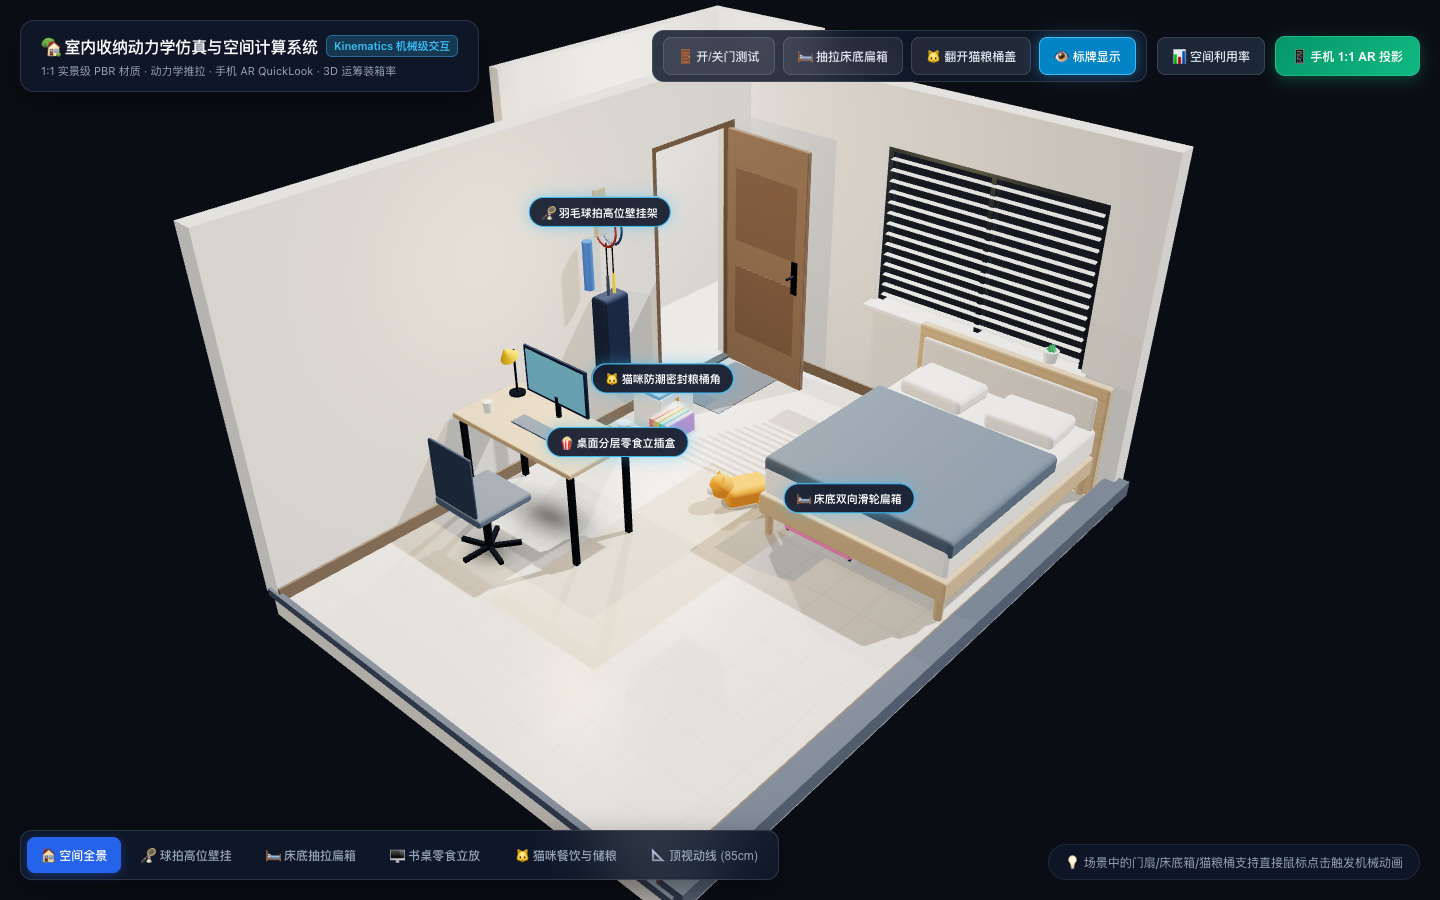
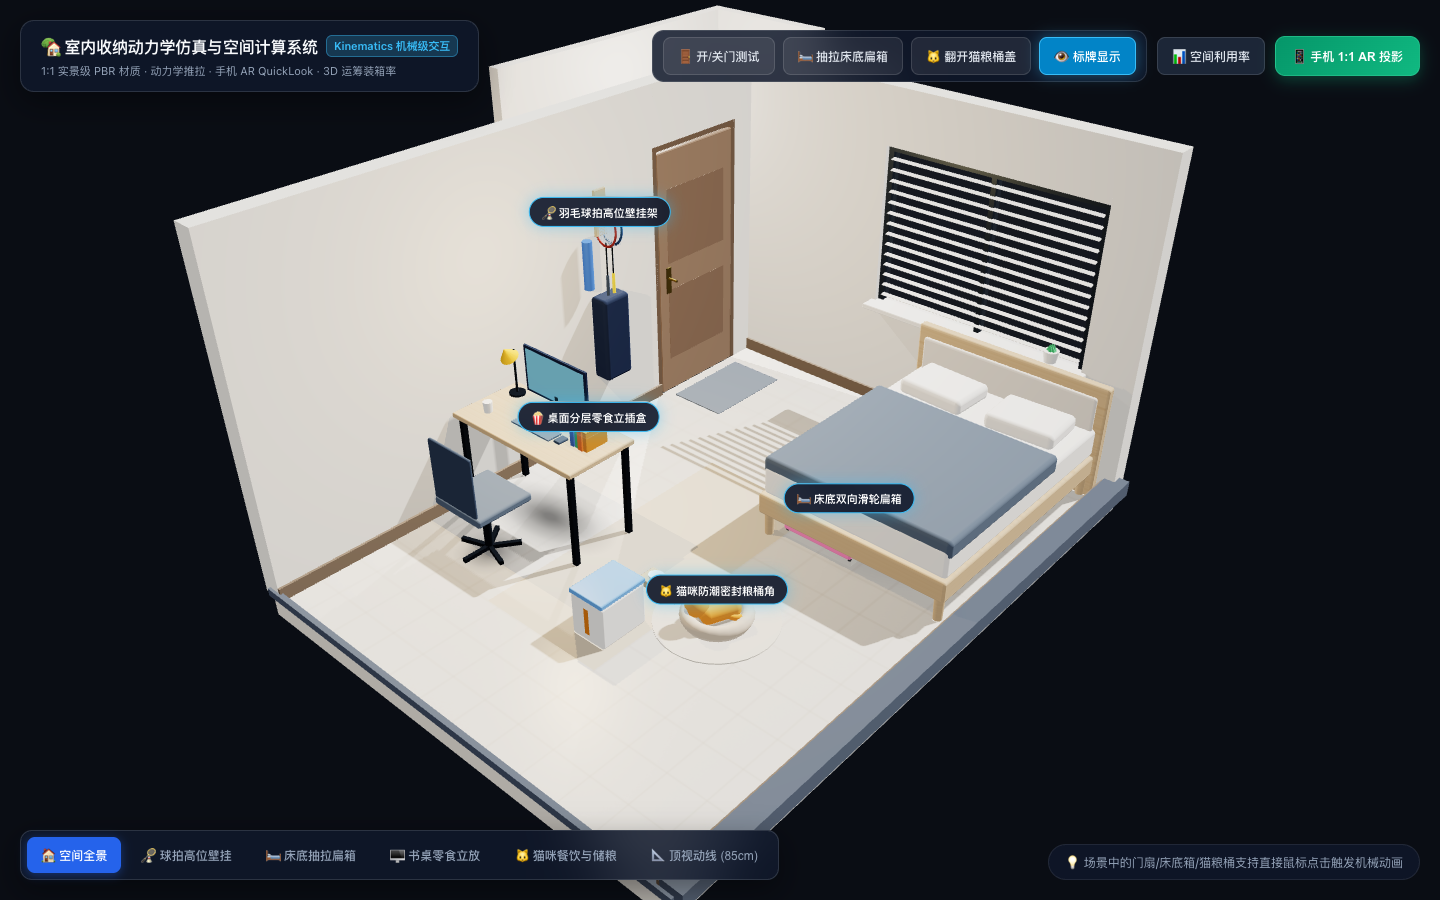
fix(physics): ground books firmly onto desk surface and position cat into dedicated sunny lounge, eliminating floating and overlaps

Changed region(s): [[0.3438, 0.1244, 0.5625, 0.5911], [0.375, 0.5911, 0.5625, 0.7467]]

diff --git a/index.html b/index.html
@@ -1069,6 +1069,37 @@
     lampShade.position.set(-0.46, 1.12, -0.12);
     deskGroup.add(lampShade);
 
+    // Desktop Solid Bookstand & Hardcover Books (Firmly anchored on desktop surface Y=0.77)
+    const bookCaddyMat = new THREE.MeshPhysicalMaterial({
+      color: 0xffffff,
+      transmission: 0.9,
+      opacity: 0.85,
+      transparent: true,
+      roughness: 0.1
+    });
+    const bookHolder = new THREE.Mesh(new THREE.RoundedBoxGeometry(0.22, 0.14, 0.26, 3, 0.008), bookCaddyMat);
+    bookHolder.position.set(0.42, 0.84, -0.06);
+    bookHolder.castShadow = true;
+    deskGroup.add(bookHolder);
+
+    const deskBookMats = [
+      new THREE.MeshStandardMaterial({ color: 0x1e3a8a, roughness: 0.6 }), // Navy
+      new THREE.MeshStandardMaterial({ color: 0x15803d, roughness: 0.6 }), // Emerald
+      new THREE.MeshStandardMaterial({ color: 0xc2410c, roughness: 0.6 }), // Terracotta
+      new THREE.MeshStandardMaterial({ color: 0xb45309, roughness: 0.6 })  // Ochre
+    ];
+    [
+      { w: 0.035, h: 0.16, d: 0.20, x: 0.35, mat: deskBookMats[0] },
+      { w: 0.030, h: 0.15, d: 0.19, x: 0.39, mat: deskBookMats[1] },
+      { w: 0.040, h: 0.17, d: 0.21, x: 0.43, mat: deskBookMats[2] },
+      { w: 0.032, h: 0.15, d: 0.19, x: 0.47, mat: deskBookMats[3] }
+    ].forEach(b => {
+      const bookMesh = new THREE.Mesh(new THREE.BoxGeometry(b.w, b.h, b.d), b.mat);
+      bookMesh.position.set(b.x, 0.77 + b.h / 2, -0.06);
+      bookMesh.castShadow = true;
+      deskGroup.add(bookMesh);
+    });
+
     addContactShadow(deskGroup, 1.3, 0.7, 0, 0, 0.65);
     deskGroup.position.set(-1.1, 0, 0.6);
     furnitureGroup.add(deskGroup);
@@ -1234,63 +1265,97 @@
 
     storageGroup.add(bedDrawersGroup);
 
-    // C. Desktop Acrylic Snack Organizer
-    const snackGroup = new THREE.Group();
-    const acrylicMat = new THREE.MeshPhysicalMaterial({
-      color: 0xffffff,
-      transmission: 0.92,
-      opacity: 0.85,
-      transparent: true,
-      roughness: 0.1
-    });
-    const caddy = new THREE.Mesh(new THREE.RoundedBoxGeometry(0.22, 0.16, 0.34, 3, 0.008), acrylicMat);
-    caddy.position.set(-0.35, 0.85, 0.1);
-    caddy.castShadow = true;
-    snackGroup.add(caddy);
+    // C. Desktop Books & Vertical Organizer (Anchored inside deskGroup)
 
-    // Colorful snack pouches standing vertically (save 70% desktop space)
-    [0xef4444, 0xf59e0b, 0x10b981, 0x8b5cf6].forEach((col, sidx) => {
-      const snackPouch = new THREE.Mesh(
-        new THREE.BoxGeometry(0.035, 0.14, 0.26),
-        new THREE.MeshStandardMaterial({ color: col, roughness: 0.4 })
-      );
-      snackPouch.position.set(-0.41 + sidx * 0.045, 0.86, 0.1);
-      snackGroup.add(snackPouch);
-    });
-    storageGroup.add(snackGroup);
-
-    // D. Kinematic Cat Station & Airtight Pet Food Bucket
+    // D. Kinematic Cat Living Sanctuary (Sunny floor zone in front of bed: X=0.55, Z=0.65)
     const catStationGroup = new THREE.Group();
-    // Non-slip silicone feeding mat
-    const catMat = new THREE.Mesh(
-      new THREE.RoundedBoxGeometry(0.45, 0.01, 0.3, 3, 0.01),
-      new THREE.MeshStandardMaterial({ color: 0x94a3b8, roughness: 0.8 })
-    );
-    catMat.position.set(-1.42, 0.006, -0.55);
-    catStationGroup.add(catMat);
 
-    // Elevated Bamboo Bowl Stand
-    const bowlStand = new THREE.Mesh(new THREE.RoundedBoxGeometry(0.36, 0.07, 0.16, 3, 0.01), woodMat);
-    bowlStand.position.set(-1.42, 0.045, -0.55);
+    // Round Woven Wool / Sisal Cat Rug (Sunlight spot)
+    const catRugMat = new THREE.MeshStandardMaterial({ color: 0xe5dcce, roughness: 0.95 });
+    const catRug = new THREE.Mesh(new THREE.CylinderGeometry(0.42, 0.42, 0.008, 32), catRugMat);
+    catRug.position.set(0.55, 0.004, 0.65);
+    catRug.receiveShadow = true;
+    catStationGroup.add(catRug);
+
+    // Plush Donut Cat Bed
+    const catBedMat = new THREE.MeshStandardMaterial({ color: 0xd7c4ae, roughness: 0.9 });
+    const catBedBase = new THREE.Mesh(new THREE.CylinderGeometry(0.24, 0.22, 0.05, 24), catBedMat);
+    catBedBase.position.set(0.55, 0.028, 0.65);
+    catBedBase.receiveShadow = true;
+    catStationGroup.add(catBedBase);
+
+    const catBedRim = new THREE.Mesh(
+      new THREE.TorusGeometry(0.20, 0.045, 12, 24),
+      new THREE.MeshStandardMaterial({ color: 0xc8b299, roughness: 0.9 })
+    );
+    catBedRim.rotation.x = Math.PI / 2;
+    catBedRim.position.set(0.55, 0.06, 0.65);
+    catStationGroup.add(catBedRim);
+
+    addContactShadow(catStationGroup, 0.65, 0.65, 0.55, 0.65, 0.6);
+
+    // --- CUTE 3D COMPANION CAT (Curled up sleeping peacefully in cat bed) ---
+    const catCompanion = new THREE.Group();
+    const catFurMat = new THREE.MeshStandardMaterial({ color: 0xf97316, roughness: 0.75 });
+    const catWhiteMat = new THREE.MeshStandardMaterial({ color: 0xffffff, roughness: 0.8 });
+
+    // Cat Body
+    const catBody = new THREE.Mesh(new THREE.RoundedBoxGeometry(0.22, 0.12, 0.28, 4, 0.05), catFurMat);
+    catBody.position.set(0, 0.06, 0);
+    catBody.castShadow = true;
+    catCompanion.add(catBody);
+
+    // Cat Head
+    const catHead = new THREE.Mesh(new THREE.SphereGeometry(0.08, 16, 16), catFurMat);
+    catHead.position.set(0, 0.12, 0.14);
+    catHead.castShadow = true;
+    catCompanion.add(catHead);
+
+    // Ears
+    [-0.038, 0.038].forEach(ex => {
+      const ear = new THREE.Mesh(new THREE.ConeGeometry(0.026, 0.05, 4), catFurMat);
+      ear.rotation.y = Math.PI / 4;
+      ear.position.set(ex, 0.19, 0.14);
+      catCompanion.add(ear);
+    });
+
+    // Cute Snout
+    const catSnout = new THREE.Mesh(new THREE.SphereGeometry(0.03, 12, 12), catWhiteMat);
+    catSnout.position.set(0, 0.10, 0.20);
+    catCompanion.add(catSnout);
+
+    // Curled Tail
+    const catTail = new THREE.Mesh(new THREE.TorusGeometry(0.07, 0.02, 8, 16, Math.PI * 1.1), catFurMat);
+    catTail.rotation.x = Math.PI / 2;
+    catTail.position.set(0.06, 0.03, -0.11);
+    catCompanion.add(catTail);
+
+    // Positioned strictly inside the cat bed in the sunny foreground!
+    catCompanion.position.set(0.55, 0.055, 0.65);
+    catCompanion.rotation.y = -0.4;
+    catStationGroup.add(catCompanion);
+
+    // Dual Ceramic Feeding Bowls (Adjacent to cat rug)
+    const bowlStand = new THREE.Mesh(new THREE.RoundedBoxGeometry(0.34, 0.06, 0.15, 3, 0.01), woodMat);
+    bowlStand.position.set(0.08, 0.03, 0.65);
     catStationGroup.add(bowlStand);
 
-    // 2 Ceramic Bowls (Dry food & Fresh water)
-    [-0.08, 0.08].forEach(bx => {
+    [-0.07, 0.07].forEach(bx => {
       const bowl = new THREE.Mesh(
-        new THREE.CylinderGeometry(0.06, 0.045, 0.045, 24),
+        new THREE.CylinderGeometry(0.055, 0.04, 0.04, 24),
         new THREE.MeshStandardMaterial({ color: 0xffffff, roughness: 0.15 })
       );
       bowl.rotation.x = -0.12;
-      bowl.position.set(-1.42 + bx, 0.085, -0.55);
+      bowl.position.set(0.08 + bx, 0.065, 0.65);
       catStationGroup.add(bowl);
     });
 
-    // 10kg Airtight Cat Food Container (White with visual window)
+    // 10kg Airtight Cat Food Container (Neatly beside the aisle)
     const bucketBase = new THREE.Mesh(
-      new THREE.RoundedBoxGeometry(0.3, 0.32, 0.4, 4, 0.02),
+      new THREE.RoundedBoxGeometry(0.28, 0.32, 0.38, 4, 0.02),
       new THREE.MeshStandardMaterial({ color: 0xf8fafc, roughness: 0.3 })
     );
-    bucketBase.position.set(-1.42, 0.16, -0.92);
+    bucketBase.position.set(0.08, 0.16, 1.15);
     bucketBase.castShadow = true;
     catStationGroup.add(bucketBase);
 
@@ -1299,61 +1364,20 @@
       new THREE.PlaneGeometry(0.04, 0.2),
       new THREE.MeshStandardMaterial({ color: 0xb45309, roughness: 0.2 })
     );
-    bucketGauge.rotation.y = Math.PI / 2;
-    bucketGauge.position.set(-1.268, 0.16, -0.92);
+    bucketGauge.position.set(0.08, 0.16, 1.342);
     catStationGroup.add(bucketGauge);
 
     // Kinematic Bucket Lid (Hinge at rear)
     const bucketLidPivot = new THREE.Group();
-    bucketLidPivot.position.set(-1.42, 0.32, -1.12);
+    bucketLidPivot.position.set(0.08, 0.32, 0.96);
 
     const bucketLid = new THREE.Mesh(
-      new THREE.RoundedBoxGeometry(0.31, 0.035, 0.41, 3, 0.01),
+      new THREE.RoundedBoxGeometry(0.29, 0.035, 0.39, 3, 0.01),
       new THREE.MeshStandardMaterial({ color: 0x3b82f6, roughness: 0.35 })
     );
-    bucketLid.position.set(0, 0.018, 0.2);
+    bucketLid.position.set(0, 0.018, 0.19);
     bucketLidPivot.add(bucketLid);
     catStationGroup.add(bucketLidPivot);
-
-    // --- CUTE 3D COMPANION CAT (Low-Poly Orange Tabby) ---
-    const catCompanion = new THREE.Group();
-    const catFurMat = new THREE.MeshStandardMaterial({ color: 0xf97316, roughness: 0.75 });
-    const catWhiteMat = new THREE.MeshStandardMaterial({ color: 0xffffff, roughness: 0.8 });
-
-    // Cat Body (loafing comfortably on the sisal mat)
-    const catBody = new THREE.Mesh(new THREE.RoundedBoxGeometry(0.24, 0.15, 0.34, 4, 0.05), catFurMat);
-    catBody.position.set(0, 0.075, 0);
-    catBody.castShadow = true;
-    catCompanion.add(catBody);
-
-    // Cat Head
-    const catHead = new THREE.Mesh(new THREE.SphereGeometry(0.09, 16, 16), catFurMat);
-    catHead.position.set(0, 0.15, 0.18);
-    catHead.castShadow = true;
-    catCompanion.add(catHead);
-
-    // Ears
-    [-0.045, 0.045].forEach(ex => {
-      const ear = new THREE.Mesh(new THREE.ConeGeometry(0.03, 0.06, 4), catFurMat);
-      ear.rotation.y = Math.PI / 4;
-      ear.position.set(ex, 0.23, 0.18);
-      catCompanion.add(ear);
-    });
-
-    // Cute Snout
-    const catSnout = new THREE.Mesh(new THREE.SphereGeometry(0.035, 12, 12), catWhiteMat);
-    catSnout.position.set(0, 0.13, 0.26);
-    catCompanion.add(catSnout);
-
-    // Curled Tail
-    const catTail = new THREE.Mesh(new THREE.TorusGeometry(0.08, 0.025, 8, 16, Math.PI * 1.1), catFurMat);
-    catTail.rotation.x = Math.PI / 2;
-    catTail.position.set(0.08, 0.03, -0.15);
-    catCompanion.add(catTail);
-
-    catCompanion.position.set(-0.2, 0.005, -0.5);
-    catCompanion.rotation.y = -0.5;
-    catStationGroup.add(catCompanion);
 
     storageGroup.add(catStationGroup);
     scene.add(storageGroup);
@@ -1431,7 +1455,7 @@
       {
         id: 'hs-snack',
         title: '🍿 桌面分层零食立插盒',
-        pos: new THREE.Vector3(-0.35, 0.95, 0.6),
+        pos: new THREE.Vector3(-0.68, 0.98, 0.54),
         data: {
           title: '🍿 亚克力阶梯式零食收纳架',
           pos: '书桌右上角死角',
@@ -1444,7 +1468,7 @@
       {
         id: 'hs-cat',
         title: '🐱 猫咪防潮密封粮桶角',
-        pos: new THREE.Vector3(-1.42, 0.38, -0.92),
+        pos: new THREE.Vector3(0.55, 0.25, 0.65),
         data: {
           title: '🐱 10kg 气阀式防潮密封储粮桶',
           pos: '门后角落安全区',
@@ -1557,7 +1581,7 @@
       }
 
       // Check snacks
-      const snackHits = raycaster.intersectObjects(snackGroup.children, true);
+      const snackHits = raycaster.intersectObjects([bookHolder], true);
       if (snackHits.length > 0) {
         openDrawer(hotspotsData[2].data);
         return;
@@ -1578,7 +1602,7 @@
       else if (mode === 'racket') tweenCam({ x: -0.2, y: 2.0, z: -0.3 }, { x: -1.7, y: 1.6, z: -0.6 });
       else if (mode === 'bed') tweenCam({ x: -0.5, y: 1.4, z: -1.0 }, { x: 0.9, y: 0.25, z: -1.25 });
       else if (mode === 'desk') tweenCam({ x: -0.2, y: 1.5, z: 1.0 }, { x: -1.1, y: 0.85, z: 0.6 });
-      else if (mode === 'cat') tweenCam({ x: -0.4, y: 1.2, z: -0.6 }, { x: -1.4, y: 0.25, z: -0.75 });
+      else if (mode === 'cat') tweenCam({ x: 0.55, y: 1.3, z: 1.5 }, { x: 0.55, y: 0.15, z: 0.65 });
       else if (mode === 'top') tweenCam({ x: 0.01, y: 8.5, z: 0.01 }, { x: 0, y: 0, z: 0 });
     }
 
